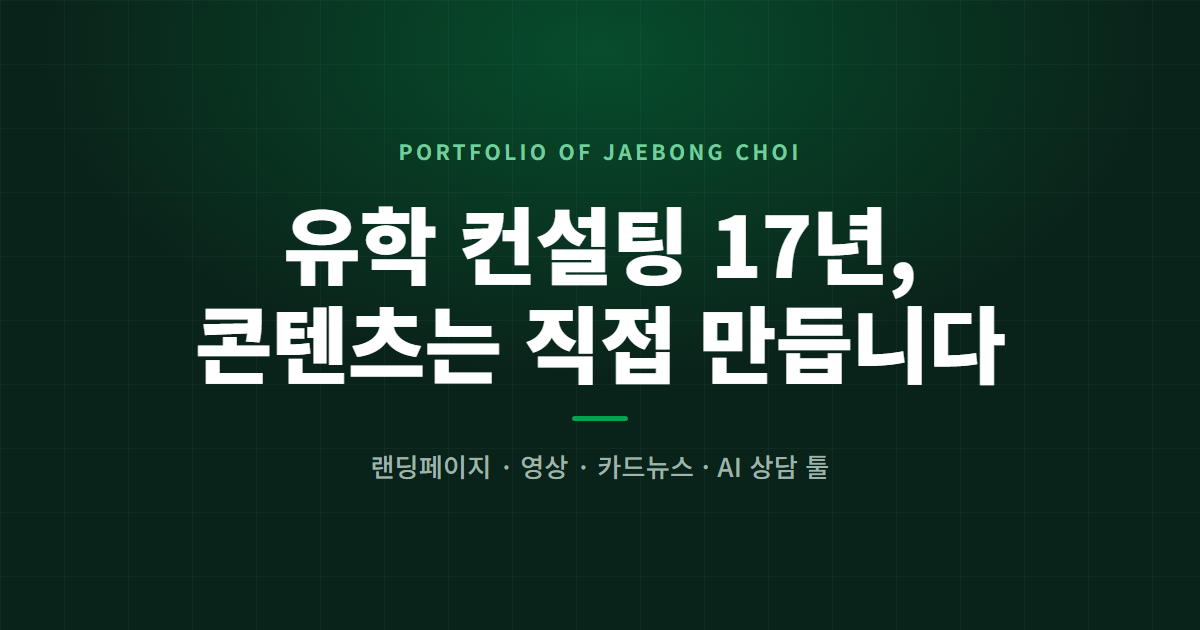
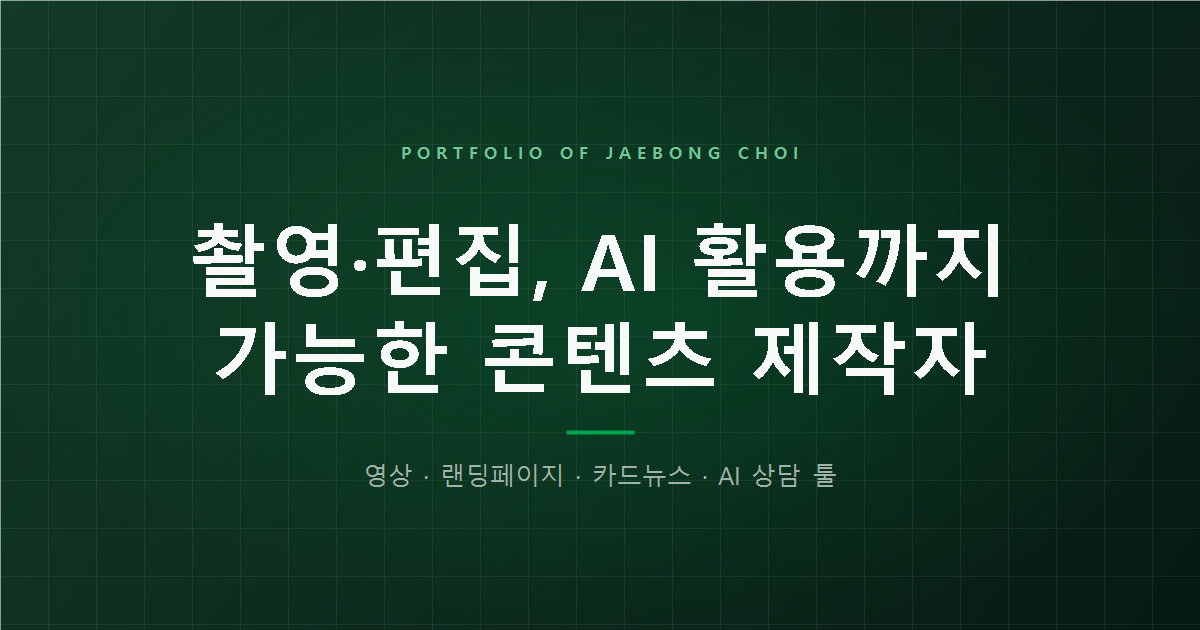
히어로를 직무 중립 카피로 교체하고 영상 섹션을 최상단으로
- 히어로 h1: "유학 컨설팅 17년" -> "촬영·편집, AI 활용까지 가능한 콘텐츠 제작자"
- 서브카피·앵커 내비를 영상 우선 순서로 재정렬, SNS 섹션을 AI 상담 툴 위로 이동
- 히어로 CTA와 nav 라벨을 #sns / "영상 콘텐츠"로 변경
- 경력 연수를 이력서와 맞춰 17년 -> 18년으로 통일 (5곳)
- title·description·og·twitter 메타 태그를 새 카피로 교체
- og-hero.png 재생성 (미리보기에 옛 문구가 박혀 있었음)

diff --git a/index.html b/index.html
@@ -3,20 +3,20 @@
 <head>
 <meta charset="utf-8">
 <meta name="viewport" content="width=device-width, initial-scale=1">
-<title>최재봉 · 유학 컨설팅 × AI 콘텐츠 포트폴리오</title>
-<meta name="description" content="17년간 유학 상담 현장을 지켜온 상담가가 만드는 AI 콘텐츠 — 랜딩페이지 · 영상 · 카드뉴스 · AI 상담 툴. 최재봉 포트폴리오.">
-<meta property="og:title" content="최재봉 · 유학 컨설팅 × AI 콘텐츠 포트폴리오">
-<meta property="og:description" content="유학 컨설팅 17년, 콘텐츠는 직접 만듭니다.">
+<title>최재봉 · 영상 · 콘텐츠 제작 포트폴리오</title>
+<meta name="description" content="기획부터 촬영·편집까지, 콘텐츠는 직접 만듭니다 — 영상 · 랜딩페이지 · 카드뉴스 · AI 상담 툴. 최재봉 포트폴리오.">
+<meta property="og:title" content="최재봉 · 영상 · 콘텐츠 제작 포트폴리오">
+<meta property="og:description" content="촬영·편집, AI 활용까지 가능한 콘텐츠 제작자">
 <meta property="og:type" content="website">
 <meta property="og:url" content="https://jaebong-portfolio.vercel.app/">
 <meta property="og:image" content="https://jaebong-portfolio.vercel.app/assets/og-hero.png">
 <meta property="og:image:width" content="1200">
 <meta property="og:image:height" content="630">
-<meta property="og:image:alt" content="유학 컨설팅 17년, 콘텐츠는 직접 만듭니다">
+<meta property="og:image:alt" content="촬영·편집, AI 활용까지 가능한 콘텐츠 제작자">
 <meta name="twitter:card" content="summary_large_image">
 <meta name="twitter:image" content="https://jaebong-portfolio.vercel.app/assets/og-hero.png">
-<meta name="twitter:title" content="최재봉 · 유학 컨설팅 × AI 콘텐츠 포트폴리오">
-<meta name="twitter:description" content="유학 컨설팅 17년, 콘텐츠는 직접 만듭니다.">
+<meta name="twitter:title" content="최재봉 · 영상 · 콘텐츠 제작 포트폴리오">
+<meta name="twitter:description" content="촬영·편집, AI 활용까지 가능한 콘텐츠 제작자">
 <link rel="preconnect" href="https://fonts.googleapis.com">
 <link rel="preconnect" href="https://fonts.gstatic.com" crossorigin>
 <link rel="stylesheet" href="https://fonts.googleapis.com/css2?family=Noto+Sans+KR:wght@400;500;600;700;800;900&display=swap">
@@ -356,9 +356,9 @@
     <div class="wrap">
       <nav class="nav">
         <a href="#top" class="active">Home</a>
+        <a href="#sns">영상 콘텐츠</a>
         <a href="#consult">상담 AI 툴</a>
         <a href="#landing">랜딩페이지</a>
-        <a href="#sns">SNS 콘텐츠</a>
         <a href="#cardnews">카드뉴스</a>
         <a href="#etc">그 외 작업</a>
         <a href="#about">About</a>
@@ -370,13 +370,57 @@
       <div class="hero-inner" style="display:flex; flex-direction:column; align-items:center; text-align:center; padding:64px 100px 96px; gap:34px;">
         <div style="display:flex; flex-direction:column; align-items:center; gap:16px;">
           <span class="hero-eyebrow" style="font-family:var(--font-mono); font-size:14px; font-weight:var(--weight-semibold); letter-spacing:0.14em; color:var(--accent-on-dark);">PORTFOLIO OF JAEBONG CHOI</span>
-          <h1 class="hero-title" style="margin:0; font-family:var(--font-display); font-weight:var(--weight-extrabold); font-size:58px; line-height:1.16; color:var(--text-on-dark);">유학 컨설팅 17년,<br>콘텐츠는 직접 만듭니다</h1>
-          <p class="hero-desc" style="margin:0; max-width:620px; font-family:var(--font-mono); font-size:15px; line-height:var(--leading-body); letter-spacing:var(--tracking-body); color:var(--text-muted-on-dark);">랜딩페이지 · 영상 · 카드뉴스 · AI 상담 툴</p>
+          <h1 class="hero-title" style="margin:0; font-family:var(--font-display); font-weight:var(--weight-extrabold); font-size:58px; line-height:1.16; color:var(--text-on-dark);">촬영·편집, AI 활용까지<br>가능한 콘텐츠 제작자</h1>
+          <p class="hero-desc" style="margin:0; max-width:620px; font-family:var(--font-mono); font-size:15px; line-height:var(--leading-body); letter-spacing:var(--tracking-body); color:var(--text-muted-on-dark);">영상 · 랜딩페이지 · 카드뉴스 · AI 상담 툴</p>
         </div>
-        <a class="btn hero lg" href="#consult">포트폴리오 보기 <span class="chev">→</span></a>
+        <a class="btn hero lg" href="#sns">포트폴리오 보기 <span class="chev">→</span></a>
       </div>
     </div>
   </header>
+
+  <!-- ============ SNS 숏폼/롱폼 (light) ============ -->
+  <section id="sns" class="section on-light" style="background:var(--surface-page);">
+    <div class="pattern" aria-hidden="true">
+      <div class="ring" style="bottom:-140px; right:-120px; width:330px; height:330px; border:1px solid color-mix(in srgb,var(--accent) 18%,transparent);"></div>
+      <div class="ring" style="bottom:-100px; right:-80px; width:240px; height:240px; border:1px solid color-mix(in srgb,var(--accent) 10%,transparent);"></div>
+    </div>
+    <div class="wrap">
+      <div class="section-head" data-reveal>
+        <h2>SNS 숏폼 &amp; 롱폼</h2>
+        <span class="bar" style="background:var(--tone-fintech);"></span>
+        <p>숏폼·롱폼 가리지 않고 제작 합니다.<br>최근엔 AI를 이용하여 제작 속도를 끌어올리고 있습니다.</p>
+      </div>
+
+      <div class="stagger" data-reveal style="display:flex; flex-wrap:wrap; align-items:flex-start; gap:44px 40px; justify-content:center; margin-bottom:72px;">
+        <div class="work" style="width:300px;"><div class="thumb" style="width:300px; height:auto; aspect-ratio:9 / 16;"><img src="assets/slots/sns-3.webp" alt="AI로 제작한 30+ 과정 안내 쇼츠 (포트폴리오용)" loading="lazy" style="object-position:50% 30%;"></div>
+          <h3 style="color:var(--text-on-light);">AI로 제작한<br>30+ 과정 안내 (포폴용)</h3>
+          <a class="btn fintech sm" style="width:fit-content;" href="https://www.youtube.com/shorts/yJL-hQpJZ3w" target="_blank" rel="noopener">바로가기 <span class="chev">→</span></a></div>
+        <div class="work" style="width:300px;"><div class="thumb" style="width:300px; height:auto; aspect-ratio:9 / 16;"><img src="assets/slots/sns-4.webp" alt="AI를 이용한 쇼츠 포트폴리오" loading="lazy"></div>
+          <h3 style="color:var(--text-on-light);">AI를 이용한<br>쇼츠 포트폴리오</h3>
+          <a class="btn fintech sm" style="width:fit-content;" href="https://www.youtube.com/shorts/wMDuk0w-kxM" target="_blank" rel="noopener">바로가기 <span class="chev">→</span></a></div>
+      </div>
+
+      <div class="sub-divider" data-reveal><span class="t" style="color:var(--text-on-light);">숏폼</span><span class="d" style="color:var(--text-muted-on-light);">최근 제작한 숏폼 콘텐츠</span><span class="line"></span></div>
+      <div class="grid2 stagger" data-reveal style="margin-bottom:72px;">
+        <div class="work"><div class="thumb"><img src="assets/slots/sns-1.webp" alt="몰타 어학연수 홍보 영상" loading="lazy"></div>
+          <h3 style="color:var(--text-on-light);">몰타 어학연수 홍보 영상</h3>
+          <a class="btn fintech sm" style="width:fit-content;" href="https://youtube.com/shorts/gv0BVKMfSv4" target="_blank" rel="noopener">바로가기 <span class="chev">→</span></a></div>
+        <div class="work"><div class="thumb"><img src="assets/slots/sns-2.webp" alt="힉스필드를 통한 영상 제작" loading="lazy"></div>
+          <h3 style="color:var(--text-on-light);">힉스필드를 통한 영상 제작</h3>
+          <a class="btn fintech sm" style="width:fit-content;" href="https://drive.google.com/file/d/1e7cKrO5Q-E4_2vryHU2ETt2Kp4oLXNfh/view?usp=sharing" target="_blank" rel="noopener">바로가기 <span class="chev">→</span></a></div>
+      </div>
+
+      <div class="sub-divider" data-reveal><span class="t" style="color:var(--text-on-light);">롱폼</span><span class="d" style="color:var(--text-muted-on-light);">최근 제작한 롱폼 콘텐츠</span><span class="line"></span></div>
+      <div class="grid2 stagger" data-reveal>
+        <div class="work"><div class="thumb"><img src="assets/slots/sns-long-1.webp" alt="필리핀 안내 롱폼 편집" loading="lazy"></div>
+          <h3 style="color:var(--text-on-light);">필리핀 안내 롱폼 편집</h3>
+          <a class="btn fintech sm" style="width:fit-content;" href="https://www.youtube.com/watch?v=VtpWzUSzj0I" target="_blank" rel="noopener">바로가기 <span class="chev">→</span></a></div>
+        <div class="work"><div class="thumb"><img src="assets/slots/sns-long-2.webp" alt="'영국에서 살아남았다' 쇼츠 주인공 인터뷰" loading="lazy"></div>
+          <h3 style="color:var(--text-on-light);">'영국에서 살아남았다' 쇼츠 주인공 인터뷰</h3>
+          <a class="btn fintech sm" style="width:fit-content;" href="https://youtu.be/H3v_lnDJaT8?si=u-6_OP-b-_GgiLLt" target="_blank" rel="noopener">바로가기 <span class="chev">→</span></a></div>
+      </div>
+    </div>
+  </section>
 
   <!-- ============ 상담 AI 툴 (tint) ============ -->
   <section id="consult" class="section on-light" style="background:var(--surface-tint);">
@@ -492,50 +536,6 @@
     </div>
   </section>
 
-  <!-- ============ SNS 숏폼/롱폼 (light) ============ -->
-  <section id="sns" class="section on-light" style="background:var(--surface-page);">
-    <div class="pattern" aria-hidden="true">
-      <div class="ring" style="bottom:-140px; right:-120px; width:330px; height:330px; border:1px solid color-mix(in srgb,var(--accent) 18%,transparent);"></div>
-      <div class="ring" style="bottom:-100px; right:-80px; width:240px; height:240px; border:1px solid color-mix(in srgb,var(--accent) 10%,transparent);"></div>
-    </div>
-    <div class="wrap">
-      <div class="section-head" data-reveal>
-        <h2>SNS 숏폼 &amp; 롱폼</h2>
-        <span class="bar" style="background:var(--tone-fintech);"></span>
-        <p>숏폼·롱폼 가리지 않고 제작 합니다.<br>최근엔 AI를 이용하여 제작 속도를 끌어올리고 있습니다.</p>
-      </div>
-
-      <div class="stagger" data-reveal style="display:flex; flex-wrap:wrap; align-items:flex-start; gap:44px 40px; justify-content:center; margin-bottom:72px;">
-        <div class="work" style="width:300px;"><div class="thumb" style="width:300px; height:auto; aspect-ratio:9 / 16;"><img src="assets/slots/sns-3.webp" alt="AI로 제작한 30+ 과정 안내 쇼츠 (포트폴리오용)" loading="lazy" style="object-position:50% 30%;"></div>
-          <h3 style="color:var(--text-on-light);">AI로 제작한<br>30+ 과정 안내 (포폴용)</h3>
-          <a class="btn fintech sm" style="width:fit-content;" href="https://www.youtube.com/shorts/yJL-hQpJZ3w" target="_blank" rel="noopener">바로가기 <span class="chev">→</span></a></div>
-        <div class="work" style="width:300px;"><div class="thumb" style="width:300px; height:auto; aspect-ratio:9 / 16;"><img src="assets/slots/sns-4.webp" alt="AI를 이용한 쇼츠 포트폴리오" loading="lazy"></div>
-          <h3 style="color:var(--text-on-light);">AI를 이용한<br>쇼츠 포트폴리오</h3>
-          <a class="btn fintech sm" style="width:fit-content;" href="https://www.youtube.com/shorts/wMDuk0w-kxM" target="_blank" rel="noopener">바로가기 <span class="chev">→</span></a></div>
-      </div>
-
-      <div class="sub-divider" data-reveal><span class="t" style="color:var(--text-on-light);">숏폼</span><span class="d" style="color:var(--text-muted-on-light);">최근 제작한 숏폼 콘텐츠</span><span class="line"></span></div>
-      <div class="grid2 stagger" data-reveal style="margin-bottom:72px;">
-        <div class="work"><div class="thumb"><img src="assets/slots/sns-1.webp" alt="몰타 어학연수 홍보 영상" loading="lazy"></div>
-          <h3 style="color:var(--text-on-light);">몰타 어학연수 홍보 영상</h3>
-          <a class="btn fintech sm" style="width:fit-content;" href="https://youtube.com/shorts/gv0BVKMfSv4" target="_blank" rel="noopener">바로가기 <span class="chev">→</span></a></div>
-        <div class="work"><div class="thumb"><img src="assets/slots/sns-2.webp" alt="힉스필드를 통한 영상 제작" loading="lazy"></div>
-          <h3 style="color:var(--text-on-light);">힉스필드를 통한 영상 제작</h3>
-          <a class="btn fintech sm" style="width:fit-content;" href="https://drive.google.com/file/d/1e7cKrO5Q-E4_2vryHU2ETt2Kp4oLXNfh/view?usp=sharing" target="_blank" rel="noopener">바로가기 <span class="chev">→</span></a></div>
-      </div>
-
-      <div class="sub-divider" data-reveal><span class="t" style="color:var(--text-on-light);">롱폼</span><span class="d" style="color:var(--text-muted-on-light);">최근 제작한 롱폼 콘텐츠</span><span class="line"></span></div>
-      <div class="grid2 stagger" data-reveal>
-        <div class="work"><div class="thumb"><img src="assets/slots/sns-long-1.webp" alt="필리핀 안내 롱폼 편집" loading="lazy"></div>
-          <h3 style="color:var(--text-on-light);">필리핀 안내 롱폼 편집</h3>
-          <a class="btn fintech sm" style="width:fit-content;" href="https://www.youtube.com/watch?v=VtpWzUSzj0I" target="_blank" rel="noopener">바로가기 <span class="chev">→</span></a></div>
-        <div class="work"><div class="thumb"><img src="assets/slots/sns-long-2.webp" alt="'영국에서 살아남았다' 쇼츠 주인공 인터뷰" loading="lazy"></div>
-          <h3 style="color:var(--text-on-light);">'영국에서 살아남았다' 쇼츠 주인공 인터뷰</h3>
-          <a class="btn fintech sm" style="width:fit-content;" href="https://youtu.be/H3v_lnDJaT8?si=u-6_OP-b-_GgiLLt" target="_blank" rel="noopener">바로가기 <span class="chev">→</span></a></div>
-      </div>
-    </div>
-  </section>
-
   <!-- ============ 카드뉴스 (tint, carousel) ============ -->
   <section id="cardnews" class="section on-light" style="background:var(--surface-tint); padding-left:85px; padding-right:85px;">
     <div class="pattern" aria-hidden="true">
@@ -599,13 +599,13 @@
       <div class="section-head" data-reveal>
         <h2>About Me</h2>
         <span class="bar"></span>
-        <p>17년, 유학 상담 현장에서 쌓은 감각을 AI 콘텐츠 제작 스피드에 더하고 있어요.</p>
+        <p>18년, 유학 상담 현장에서 쌓은 감각을 AI 콘텐츠 제작 스피드에 더하고 있어요.</p>
       </div>
       <div class="about-cols stagger" data-reveal style="display:flex; gap:80px; align-items:center; flex-wrap:wrap; justify-content:center;">
         <div style="display:flex; flex-direction:column; gap:32px; max-width:380px;">
           <div style="display:flex; flex-direction:column; gap:6px;">
             <span style="font-family:var(--font-display); font-weight:var(--weight-extrabold); font-size:56px; line-height:1.05; letter-spacing:-0.02em; color:var(--text-on-light);">SINCE <span style="color:var(--accent);">2009</span></span>
-            <span style="font-family:var(--font-mono); font-size:13px; color:var(--text-muted-on-light);">유학 상담 &amp; 콘텐츠 제작, 통산 17년</span>
+            <span style="font-family:var(--font-mono); font-size:13px; color:var(--text-muted-on-light);">유학 상담 &amp; 콘텐츠 제작, 통산 18년</span>
           </div>
           <div style="display:flex; flex-direction:column; gap:14px;">
             <span style="font-family:var(--font-mono); font-size:var(--text-body); color:var(--text-on-light);">포트폴리오에 사용한 툴</span>
@@ -637,11 +637,11 @@
       <div class="section-head" data-reveal>
         <h2>경력 &amp; 해외 경험</h2>
         <span class="bar"></span>
-        <p>17년간 유학 상담 현장을 지켜온 발자취와, 직접 발로 뛴 해외 경험들.</p>
+        <p>18년간 유학 상담 현장을 지켜온 발자취와, 직접 발로 뛴 해외 경험들.</p>
       </div>
 
       <div class="split" data-reveal style="margin-bottom:56px;">
-        <div class="lead"><span class="t">경력 사항</span><span class="d">통산 17년 · 유학 상담 &amp; 콘텐츠</span></div>
+        <div class="lead"><span class="t">경력 사항</span><span class="d">통산 18년 · 유학 상담 &amp; 콘텐츠</span></div>
         <div class="body">
           <div class="row"><span class="period">2024.01 – 현재</span><div class="rt"><span class="org">종로유학원</span><span class="desc">유학 컨설팅 및 컨텐츠 제작</span></div></div>
           <div class="row"><span class="period">2022.01 – 2023.09</span><div class="rt"><span class="org">edm 에듀케이션</span><span class="desc">지사 관리 및 영상편집 프리랜서</span></div></div>
@@ -678,7 +678,7 @@
         <p>현장에서 검증된 역량, 팀과 지키는 원칙</p>
       </div>
       <div class="strength-grid stagger" data-reveal>
-        <div class="strength"><span class="tag">COUNSELING &amp; SALES</span><span class="t">유학 상담 · 세일즈</span><span class="d">17년간 상담부터 계약 · 수속까지 전 과정을 직접 담당</span></div>
+        <div class="strength"><span class="tag">COUNSELING &amp; SALES</span><span class="t">유학 상담 · 세일즈</span><span class="d">18년간 상담부터 계약 · 수속까지 전 과정을 직접 담당</span></div>
         <div class="strength"><span class="tag">GLOBAL EXPERIENCE</span><span class="t">국가별 현지 경험</span><span class="d">영국 · 몰타 · 미국 · 캐나다 · 호주 등 직접 경험한 현지 눈높이 상담</span></div>
         <div class="strength"><span class="tag">AI CONTENT</span><span class="t">AI 콘텐츠 제작</span><span class="d">랜딩페이지 · 영상 · 카드뉴스 · AI 상담 툴 직접 제작</span></div>
       </div>
